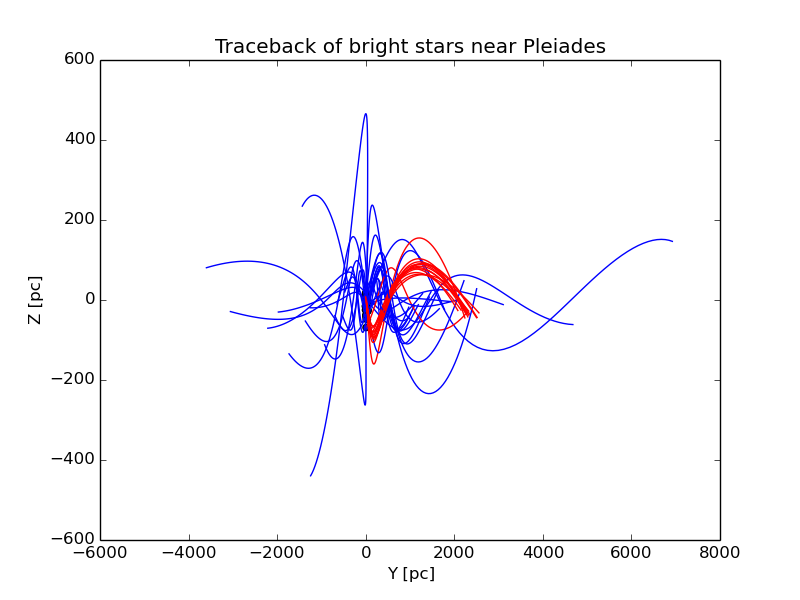
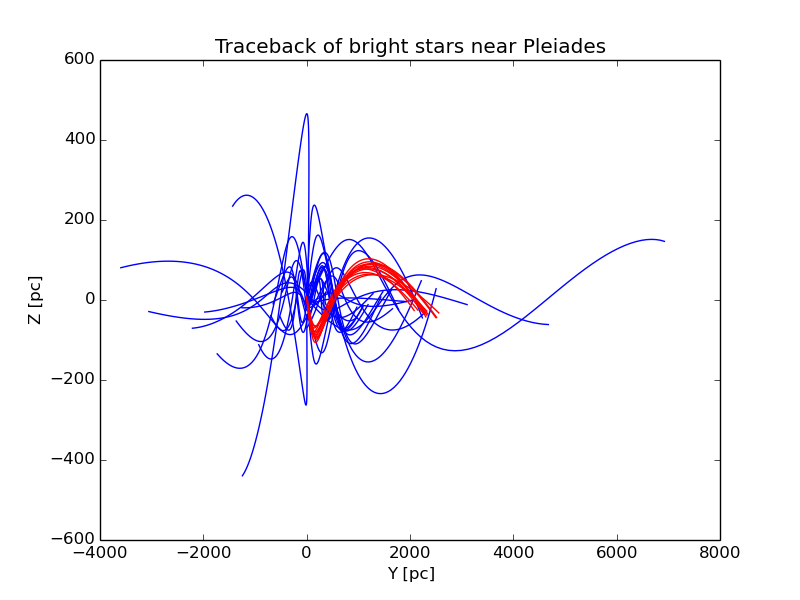
Better pleiades plots made

diff --git a/chronostar/plot_pl.py b/chronostar/plot_pl.py
@@ -17,14 +17,14 @@ for i in range(len(stars)):
         colour = 'r'
     else:
         colour = 'b'
-    plt.plot(xyzuvw[i,:,0], xyzuvw[i,:,1], colour)
+    plt.plot(xyzuvw[i,:2,0], xyzuvw[i,:2,1], colour)
 
 plt.scatter(xyzuvw[:,0,0], xyzuvw[:,0,1])
 
-plt.title("Traceback of bright stars near Pleiades")
+plt.title("Initial positions and velocities of bright stars near Pleiades")
 plt.xlabel("X [pc]")
 plt.ylabel("Y [pc]")
-plt.savefig("plots/pleiades_traced_XY.png")
+plt.savefig("plots/pleiades_intial_XY.png")
 plt.show()
 
 plt.clf()
